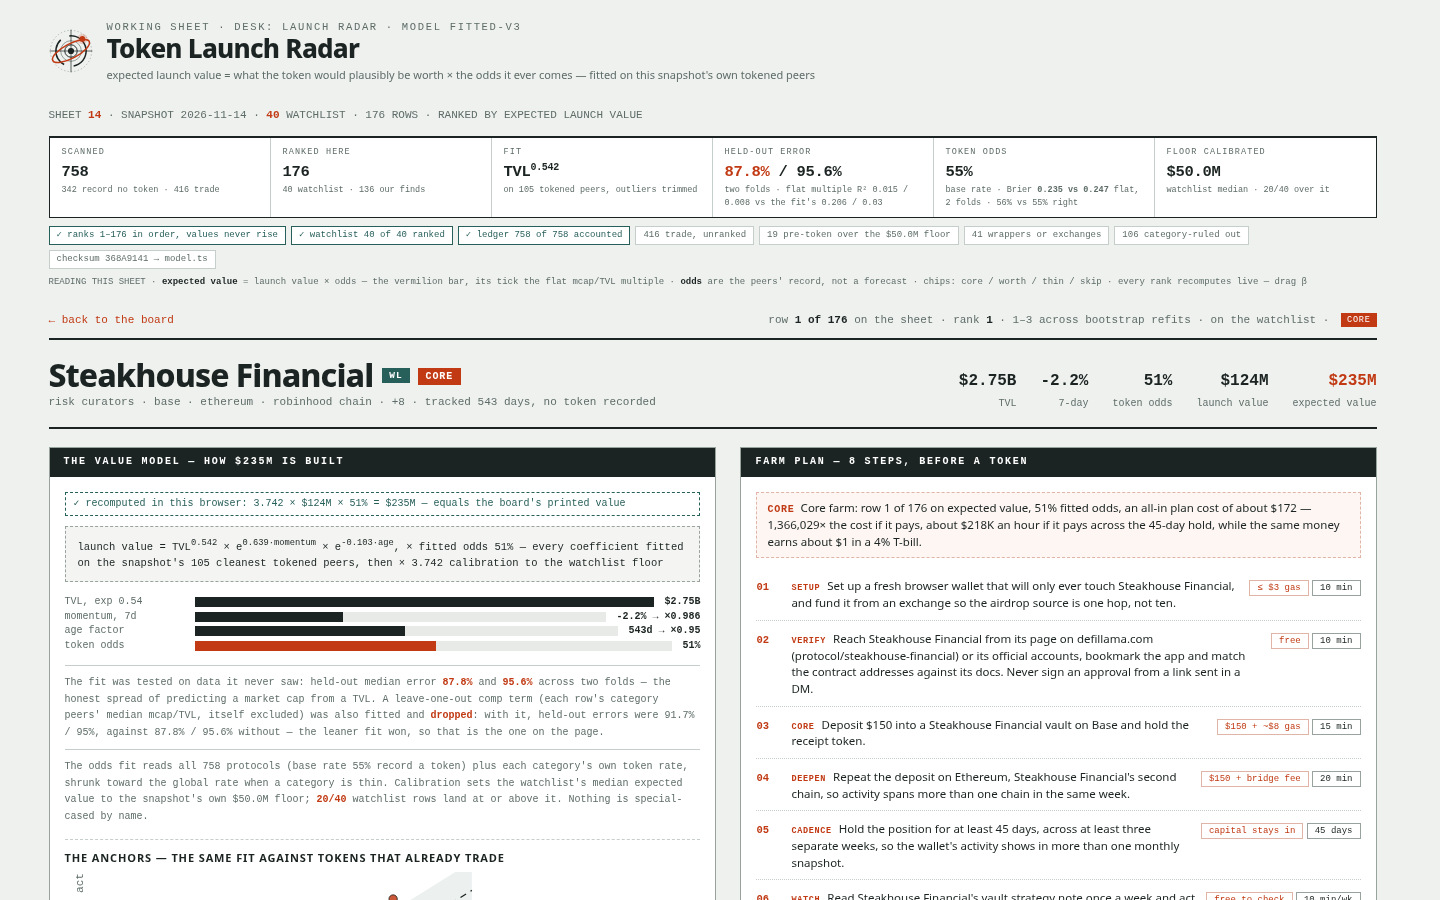
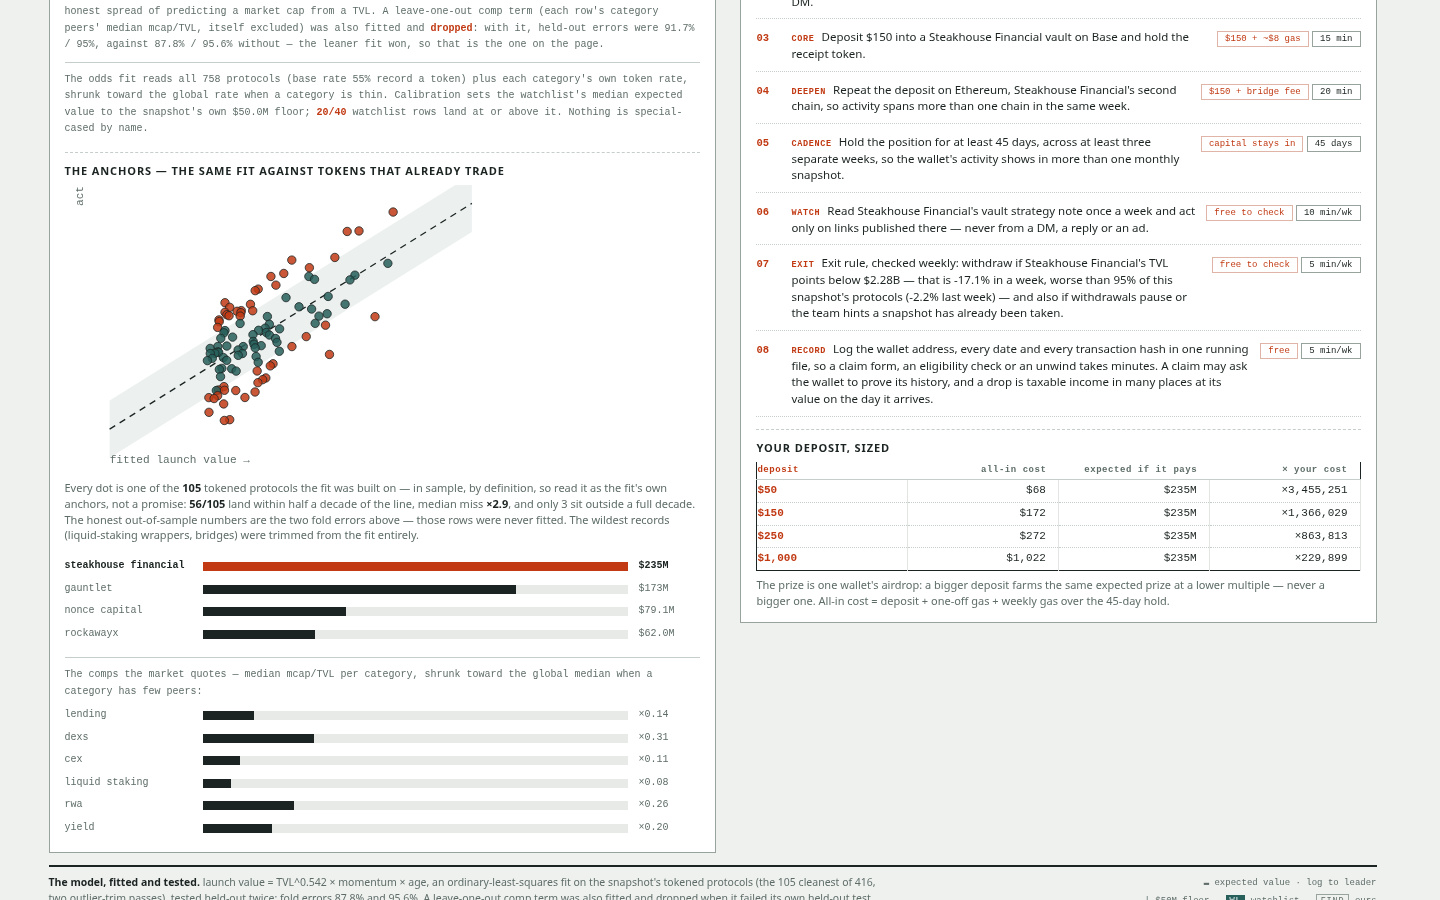
v9: the model in plain words on the page (size curve, beats the flat multiple on data it never saw), a code map at the top of app.js, and captures that prove the exit rule, budgets, and sorting

diff --git a/dashboard/app.js b/dashboard/app.js
@@ -1,5 +1,17 @@
 /* Token Launch Radar v2 — renders the fitted board from window.RADAR (which main.ts wrote).
-   No network, no framework. The KPI strip shows the model's own numbers; every view is client-side. */
+   No network, no framework. The KPI strip shows the model's own numbers; every view is client-side.
+
+   MAP OF THIS FILE, for the reader checking the screenshots against the code:
+   - scoredRows()      ranks the board: expected value = launch value × token odds, re-fit live
+   - filterRows()      the filter row's tests (watchlist, floor, growth, category, verdicts)
+   - kpisHtml()        the model's own numbers, above the board
+   - auditsHtml()      the board audits itself (order, coverage, ledger) — FNV-1a checksum, same
+                       constant printed in lib/model.ts; the fit itself lives there (robustFit)
+   - bookHtml()        the desk's book: the ten core farms, each netted to the dollar
+   - stressHtml()      the momentum slider: drag it and every rank on the sheet recomputes
+   - leadHtml()/detailHtml()  the rank-1 sheet and the per-protocol detail: model terms,
+                       farm steps with cost and time, exit rule, deposit-sized budgets
+   Sorting: click any column head (data-sort). Routes: #/p/<slug> detail, #/f/<filters> board. */
 
 const R = window.RADAR;
 const $ = (sel, el) => (el || document).querySelector(sel);
@@ -365,8 +377,8 @@ function kpisHtml() {
   return `
   <div class="kpi"><div class="l">scanned</div><div class="v">${k.scanned}</div><div class="s">${k.no_token} record no token · ${k.tokened} trade</div></div>
   <div class="kpi"><div class="l">ranked here</div><div class="v">${k.board}</div><div class="s">${R.watchlist_size} watchlist · ${k.early} our finds</div></div>
-  <div class="kpi"><div class="l">fit</div><div class="v">TVL<sup style="font-size:10px">${f.b_tvl}</sup></div><div class="s">on ${f.n} tokened peers, outliers trimmed</div></div>
-  <div class="kpi"><div class="l">held-out error</div><div class="v"><em>${rep.folds[0].median_abs_err_pct}%</em> / ${rep.folds[1].median_abs_err_pct}%</div><div class="s">two folds · flat multiple R² ${rep.folds[0].baseline_log_r2} / ${rep.folds[1].baseline_log_r2} vs the fit's ${rep.folds[0].log_r2} / ${rep.folds[1].log_r2}</div></div>
+  <div class="kpi"><div class="l">size curve</div><div class="v">TVL<sup style="font-size:10px">${f.b_tvl}</sup> × mom × age</div><div class="s">value ∝ TVL, 7-day momentum, age · fitted on ${f.n} tokened peers</div></div>
+  <div class="kpi"><div class="l">held-out error</div><div class="v"><em>${rep.folds[0].median_abs_err_pct}%</em> / ${rep.folds[1].median_abs_err_pct}%</div><div class="s">the fit beats a flat multiple on both folds — R² ${rep.folds[0].log_r2} vs ${rep.folds[0].baseline_log_r2} — on data it never saw</div></div>
   <div class="kpi"><div class="l">token odds</div><div class="v">${Math.round(rep.odds.base_rate * 100)}%</div><div class="s">base rate · Brier <b>${brierMean} vs ${brierBaseMean}</b> flat, 2 folds · ${rightMean}% vs ${rightBaseMean}% right</div></div>
   <div class="kpi"><div class="l">floor calibrated</div><div class="v">${money(R.floor_usd).replace('$', '$')}</div><div class="s">watchlist median · ${cal.watchlist_above_floor}/${cal.watchlist_size} over it</div></div>`;
 }
